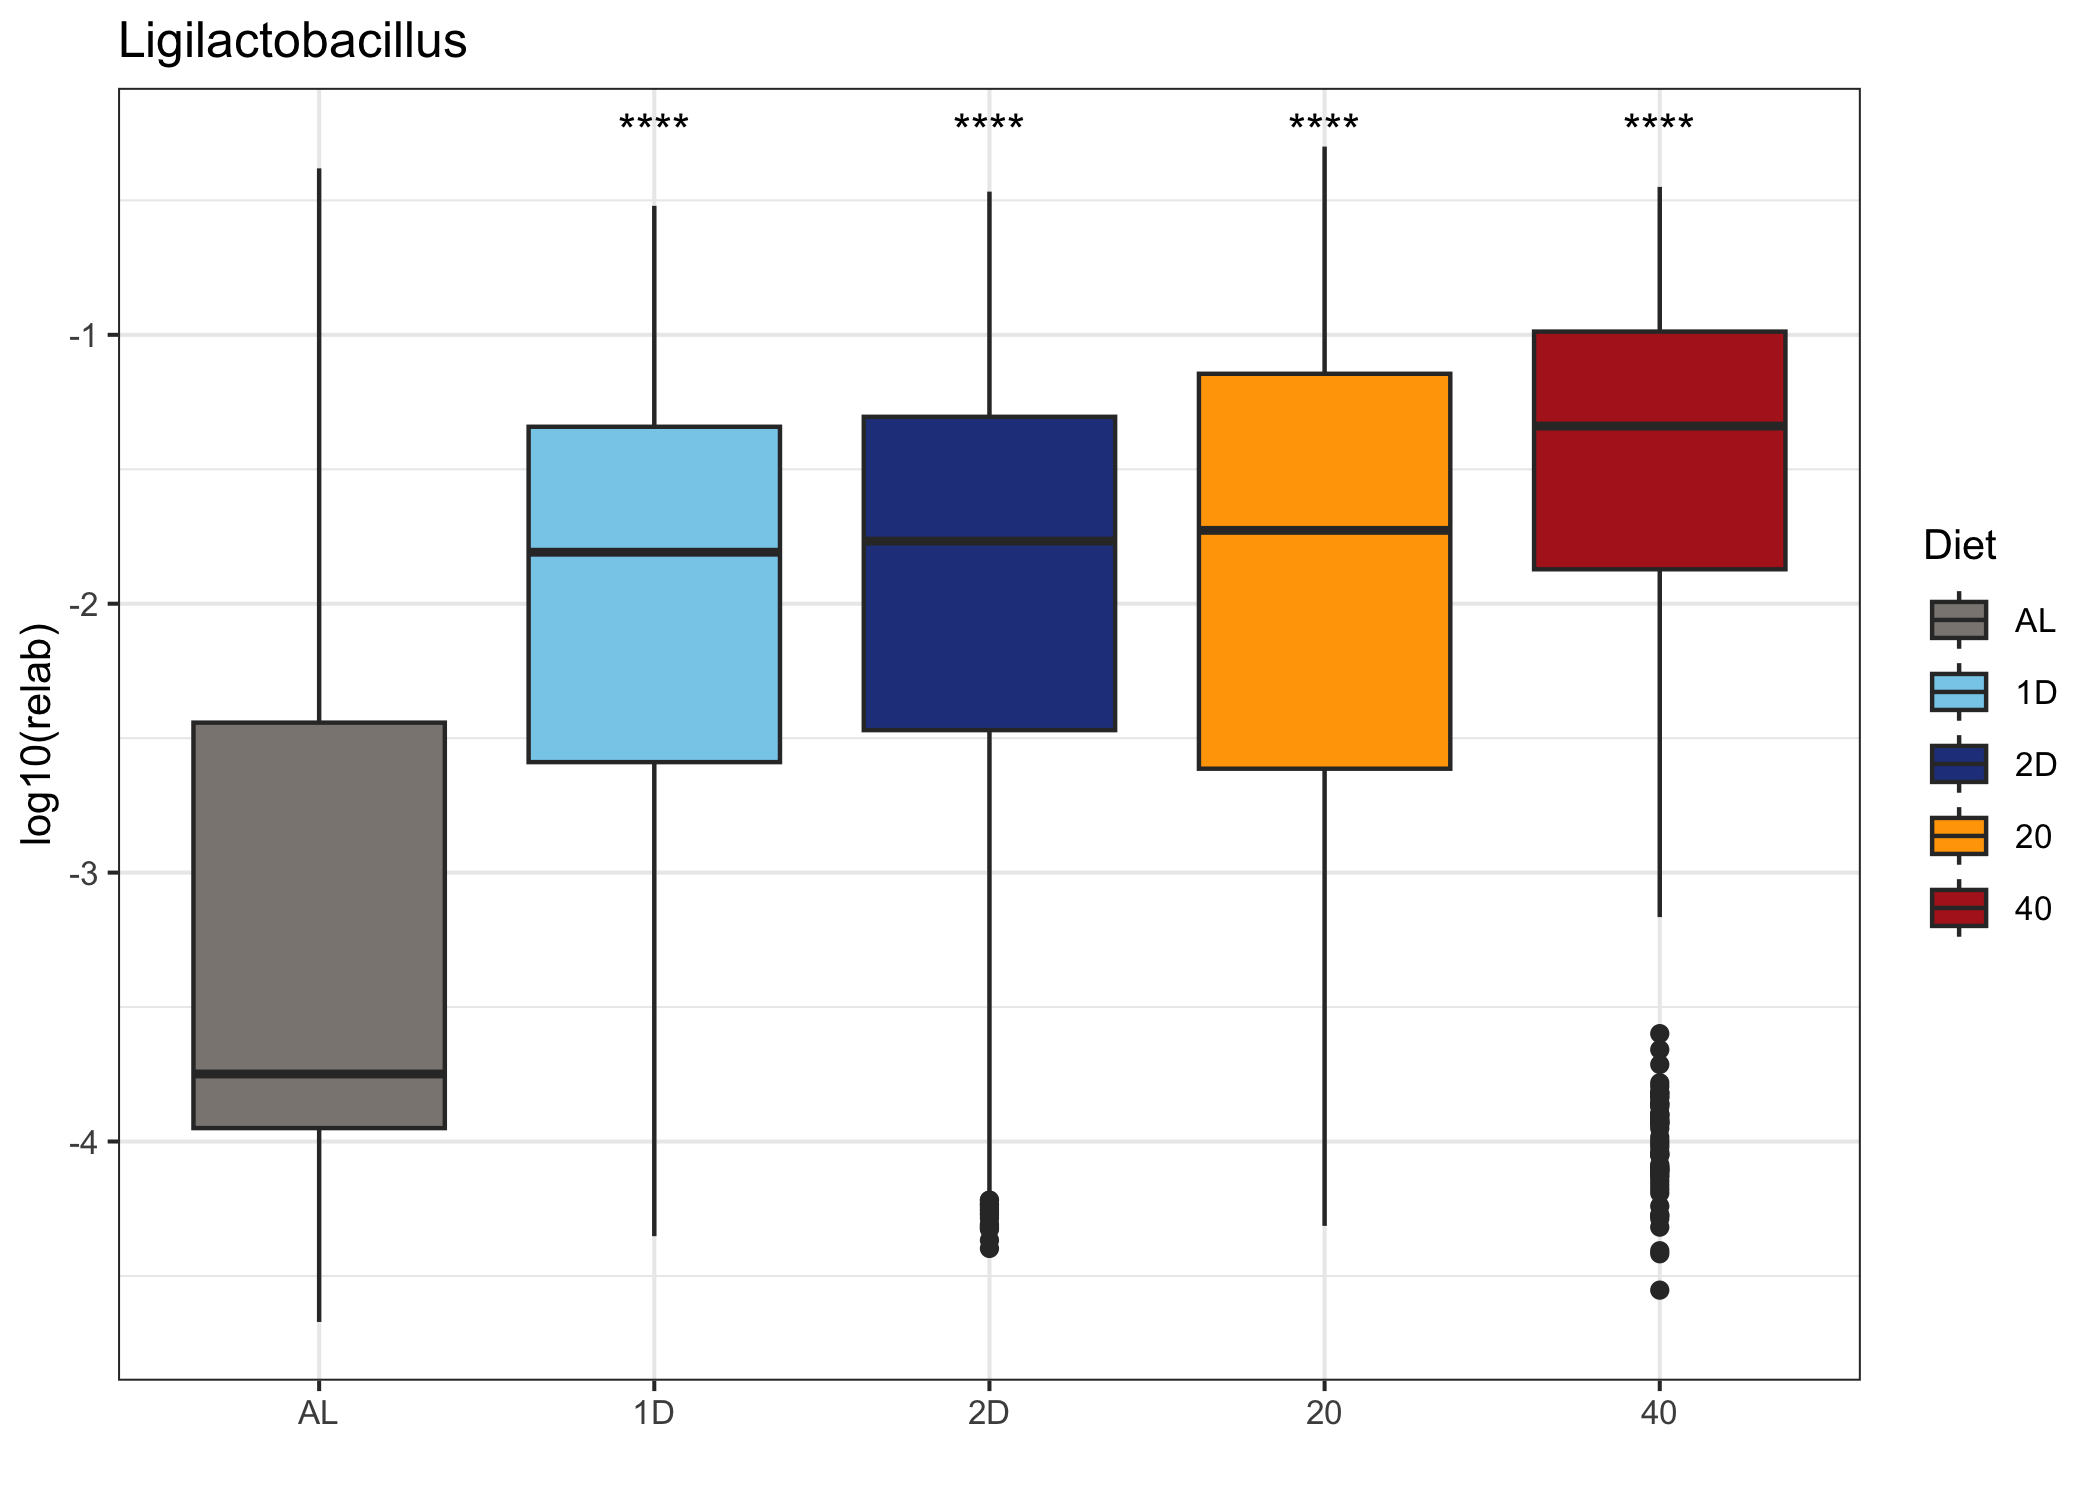
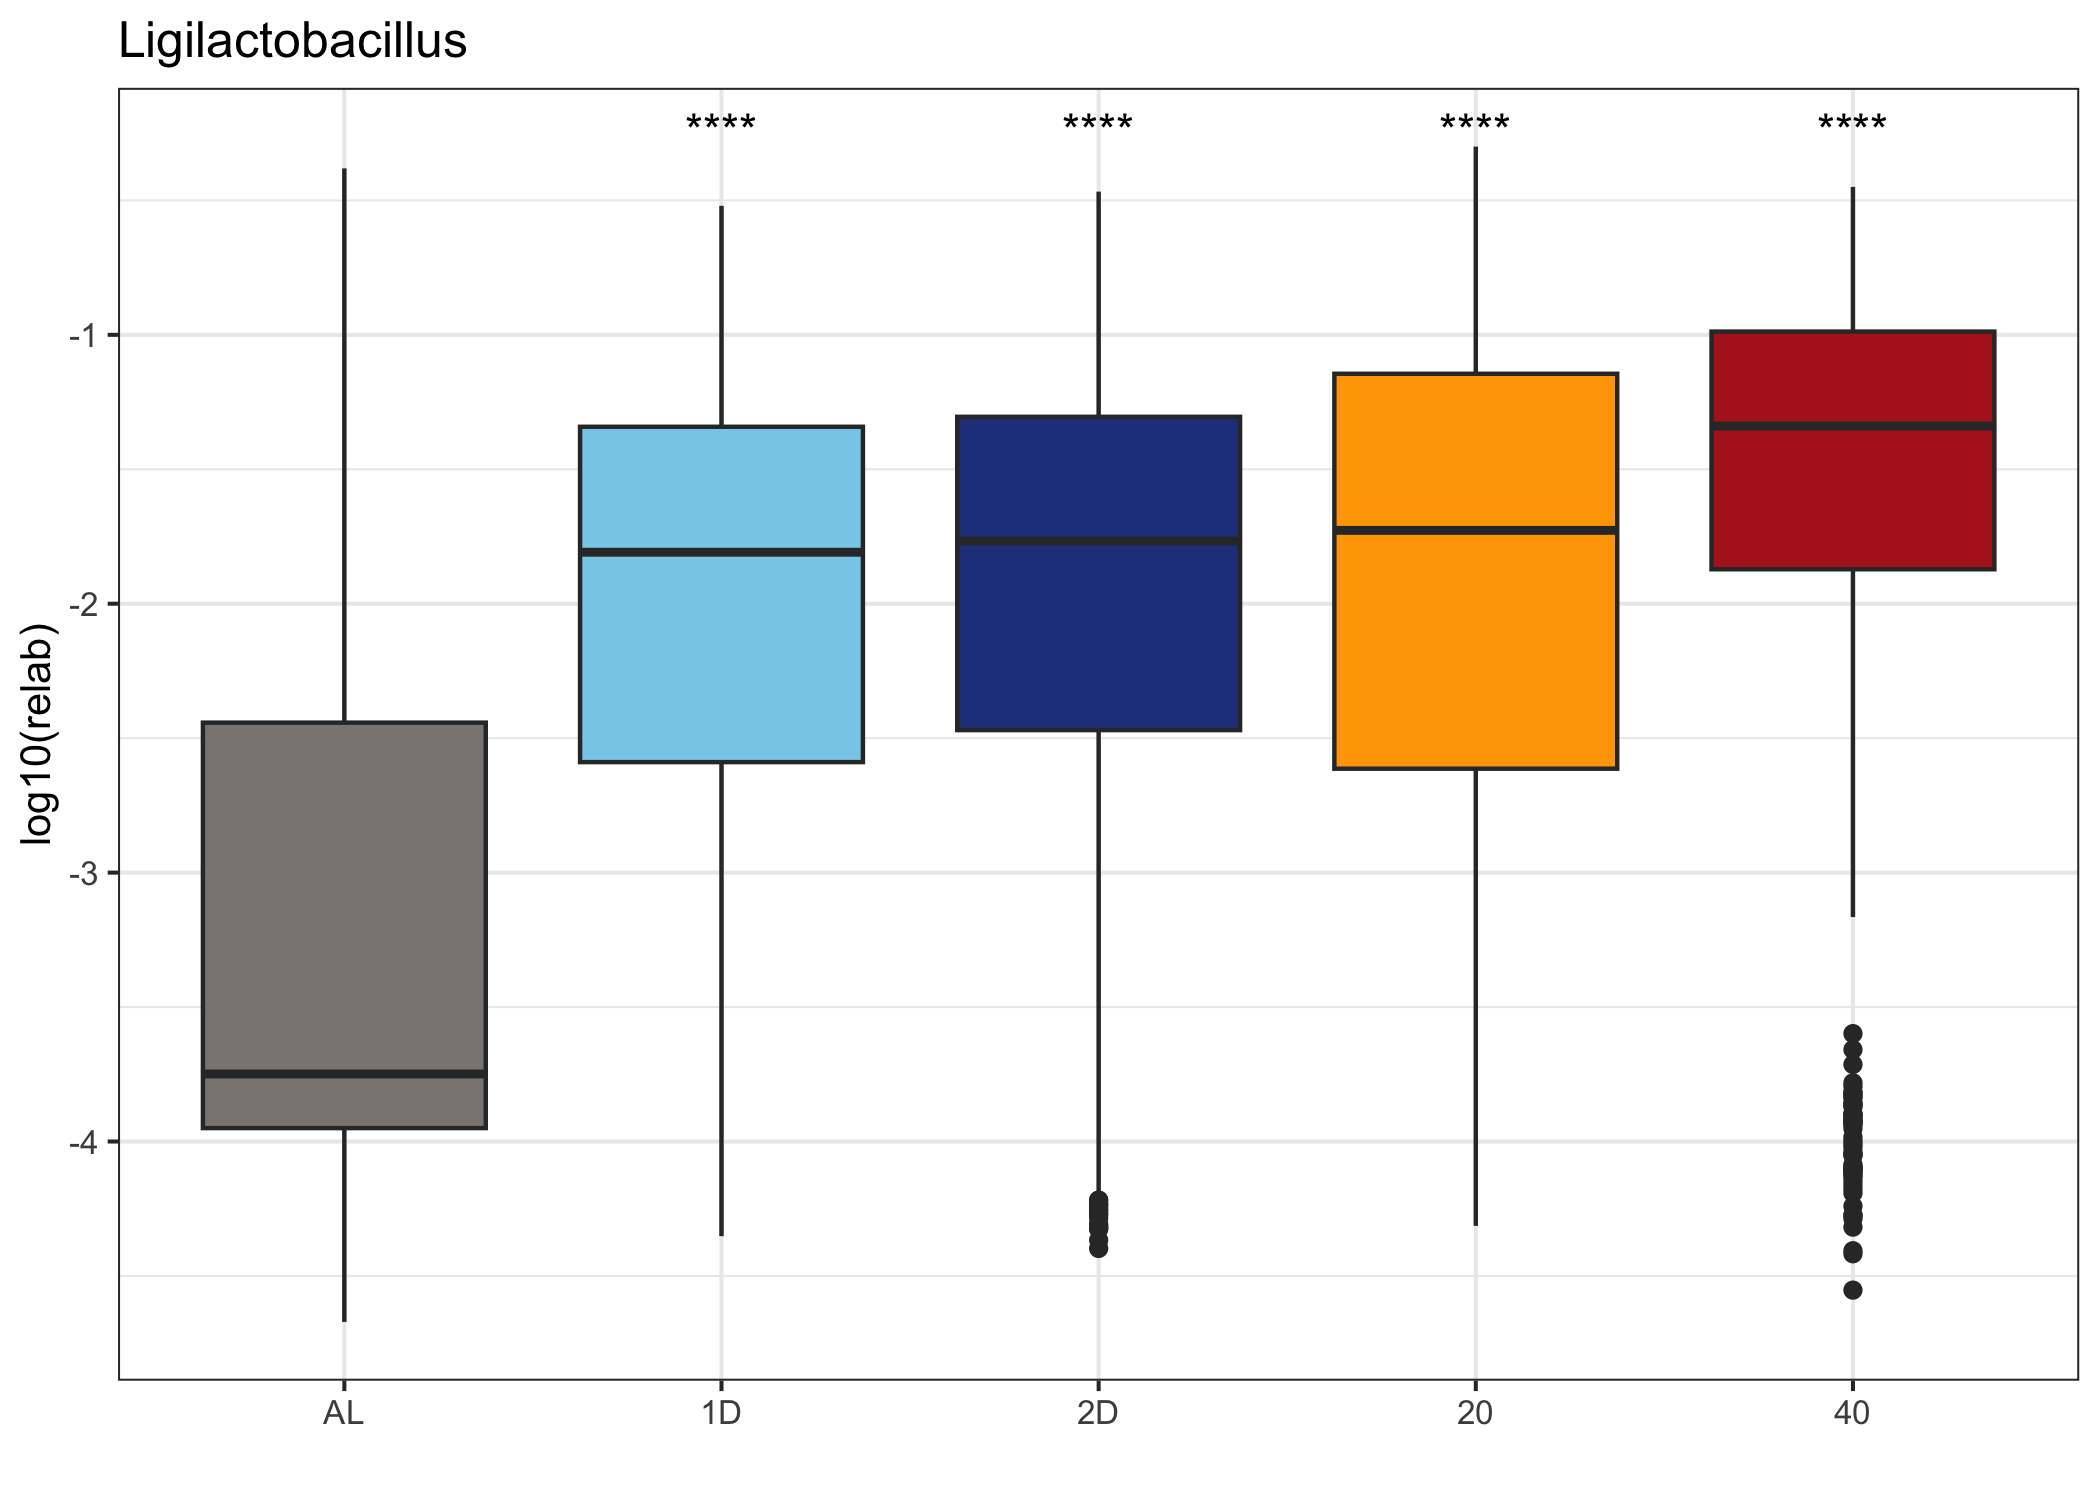
modified image sizes

diff --git a/analysis/tutorial.md b/analysis/tutorial.md
@@ -1,9 +1,7 @@
 Analysis of taxonomic data from DRiDO microbiome study
 ================
 
-*Author:* Lev Litichevskiy
-
-*Date:* October 30, 2023
+*Author:* Lev Litichevskiy<br> *Date:* October 31, 2023
 
 In this tutorial, we import taxonomic classification results and perform
 several basic analyses:
@@ -234,7 +232,7 @@ alpha.div.long.df.genus %>%
 
     ## `geom_smooth()` using formula = 'y ~ x'
 
-![](tutorial_files/figure-gfm/unnamed-chunk-15-1.png)<!-- -->
+<img src="tutorial_files/figure-gfm/unnamed-chunk-15-1.png" style="display: block; margin: auto;" />
 
 ## Versus diet
 
@@ -260,7 +258,7 @@ alpha.div.long.df.genus %>%
   theme(legend.position="none")
 ```
 
-![](tutorial_files/figure-gfm/unnamed-chunk-16-1.png)<!-- -->
+<img src="tutorial_files/figure-gfm/unnamed-chunk-16-1.png" style="display: block; margin: auto;" />
 
 # Uniqueness
 
@@ -317,7 +315,7 @@ agg.genus.uniq.bc.df %>%
 
     ## `geom_smooth()` using formula = 'y ~ x'
 
-![](tutorial_files/figure-gfm/unnamed-chunk-19-1.png)<!-- -->
+<img src="tutorial_files/figure-gfm/unnamed-chunk-19-1.png" width="75%" style="display: block; margin: auto;" />
 
 ## Versus diet
 
@@ -341,7 +339,7 @@ agg.genus.uniq.bc.df %>%
   theme(legend.position="none")
 ```
 
-![](tutorial_files/figure-gfm/unnamed-chunk-20-1.png)<!-- -->
+<img src="tutorial_files/figure-gfm/unnamed-chunk-20-1.png" width="60%" style="display: block; margin: auto;" />
 
 # PCoA
 
@@ -349,13 +347,13 @@ We’ll make a principal coordinates analysis (PCoA) plot to look for the
 overall influence of age and DR in this dataset.
 
 ``` r
-agg.pcoa.genus.bc <- agg.genus.bc.dist %>% 
+agg.pcoa.genus.bc <- agg.genus.bc.dist %>%
   cmdscale(eig=T, k=3)
 
 agg.pcoa.genus.bc.df <- merge(
   data.frame(agg.pcoa.genus.bc$points) %>% setNames(c("PCoA1", "PCoA2", "PCoA3")),
   kraken.sample.meta.df,
-  by="row.names") %>% 
+  by="row.names") %>%
   mutate(Diet=factor(Diet, levels=c("AL", "1D", "2D", "20", "40")),
          Diet.5mo.as.AL=factor(Diet.5mo.as.AL, levels=c("AL", "1D", "2D", "20", "40")))
 ```
@@ -370,24 +368,24 @@ frac.var.explained.by.pcos[1:3]
 PCoA1 and PCoA2 explain 35% and 8% of overall variance, respectively
 
 ``` r
-agg.pcoa.genus.bc.df %>% 
-  
+agg.pcoa.genus.bc.df %>%
+
   # color by diet, size by age
   ggplot(aes(x=PCoA1, y=PCoA2, color=Diet.5mo.as.AL, size=age.approx.months)) +
-  
+
   # slight transparency
   geom_point(alpha=0.8) +
-  
+
   scale_color_manual(values=diet.palette) +
-  
+
   # customize the legend for size
   scale_size_continuous(breaks=c(5,10,16,22,28,34,40,46), range=c(0.25,2)) +
-  
+
   labs(color="Diet", size="Age (months)") +
   theme_bw(base_size=10)
 ```
 
-![](tutorial_files/figure-gfm/unnamed-chunk-23-1.png)<!-- -->
+<img src="tutorial_files/figure-gfm/unnamed-chunk-23-1.png" style="display: block; margin: auto;" />
 
 We can sort of see a color gradient (red mostly at the top) and a size
 gradient (smaller dots at the bottom)
@@ -429,7 +427,7 @@ agg.physeq.genus %>%
 
     ## `geom_smooth()` using formula = 'y ~ x'
 
-![](tutorial_files/figure-gfm/unnamed-chunk-24-1.png)<!-- -->
+<img src="tutorial_files/figure-gfm/unnamed-chunk-24-1.png" width="50%" style="display: block; margin: auto;" />
 
 ## Ligilactobacillus versus diet
 
@@ -464,20 +462,11 @@ agg.physeq.genus %>%
   
   labs(x="", y="log10(relab)", title="Ligilactobacillus", fill="Diet") +
   scale_fill_manual(values=diet.palette) +
-  theme_bw(base_size=10)
-```
-
-![](tutorial_files/figure-gfm/unnamed-chunk-25-1.png)<!-- -->
-
-``` r
+  theme_bw(base_size=10) +
   theme(legend.position="none")
 ```
 
-    ## List of 1
-    ##  $ legend.position: chr "none"
-    ##  - attr(*, "class")= chr [1:2] "theme" "gg"
-    ##  - attr(*, "complete")= logi FALSE
-    ##  - attr(*, "validate")= logi TRUE
+<img src="tutorial_files/figure-gfm/unnamed-chunk-25-1.png" width="60%" style="display: block; margin: auto;" />
 
 # sessionInfo
 
